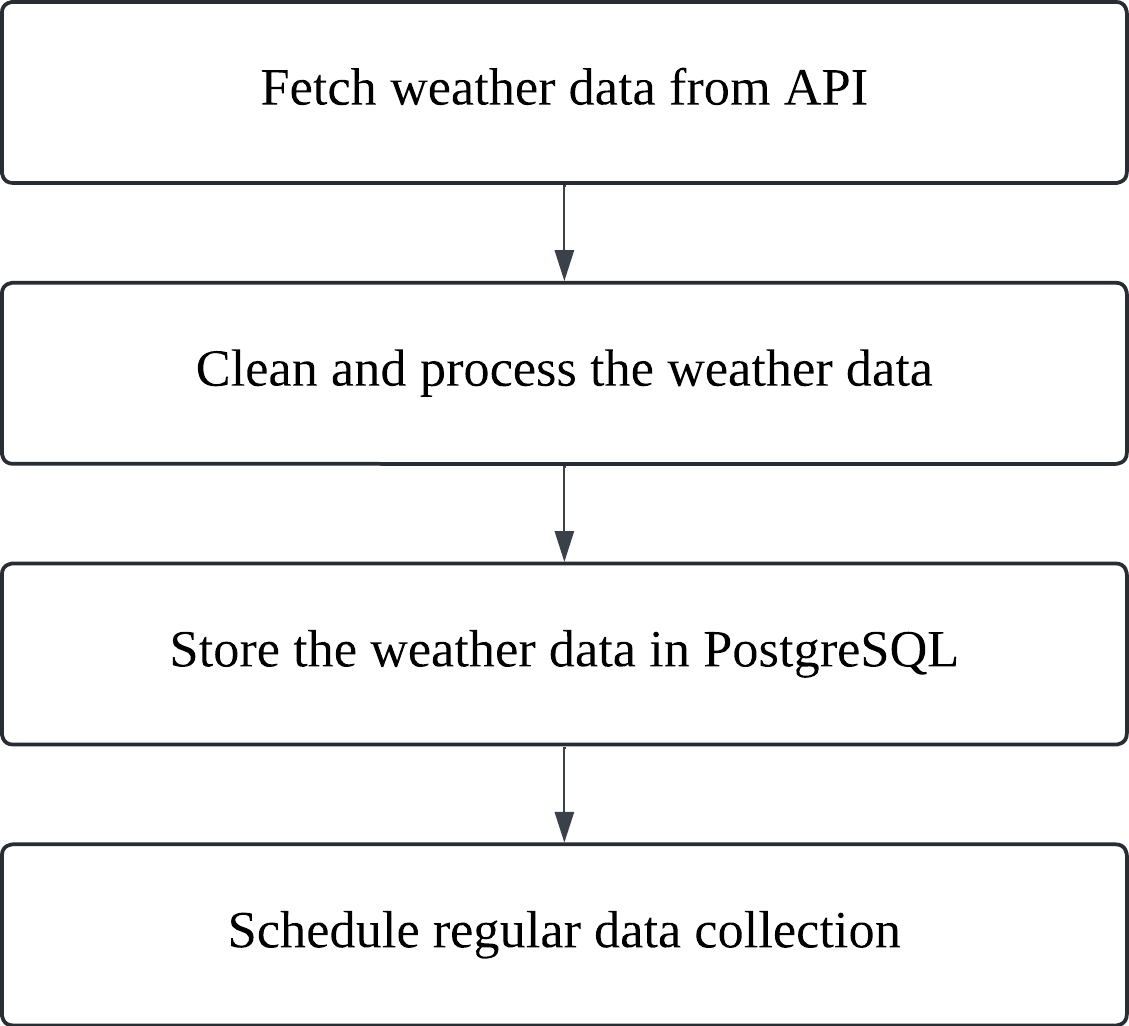
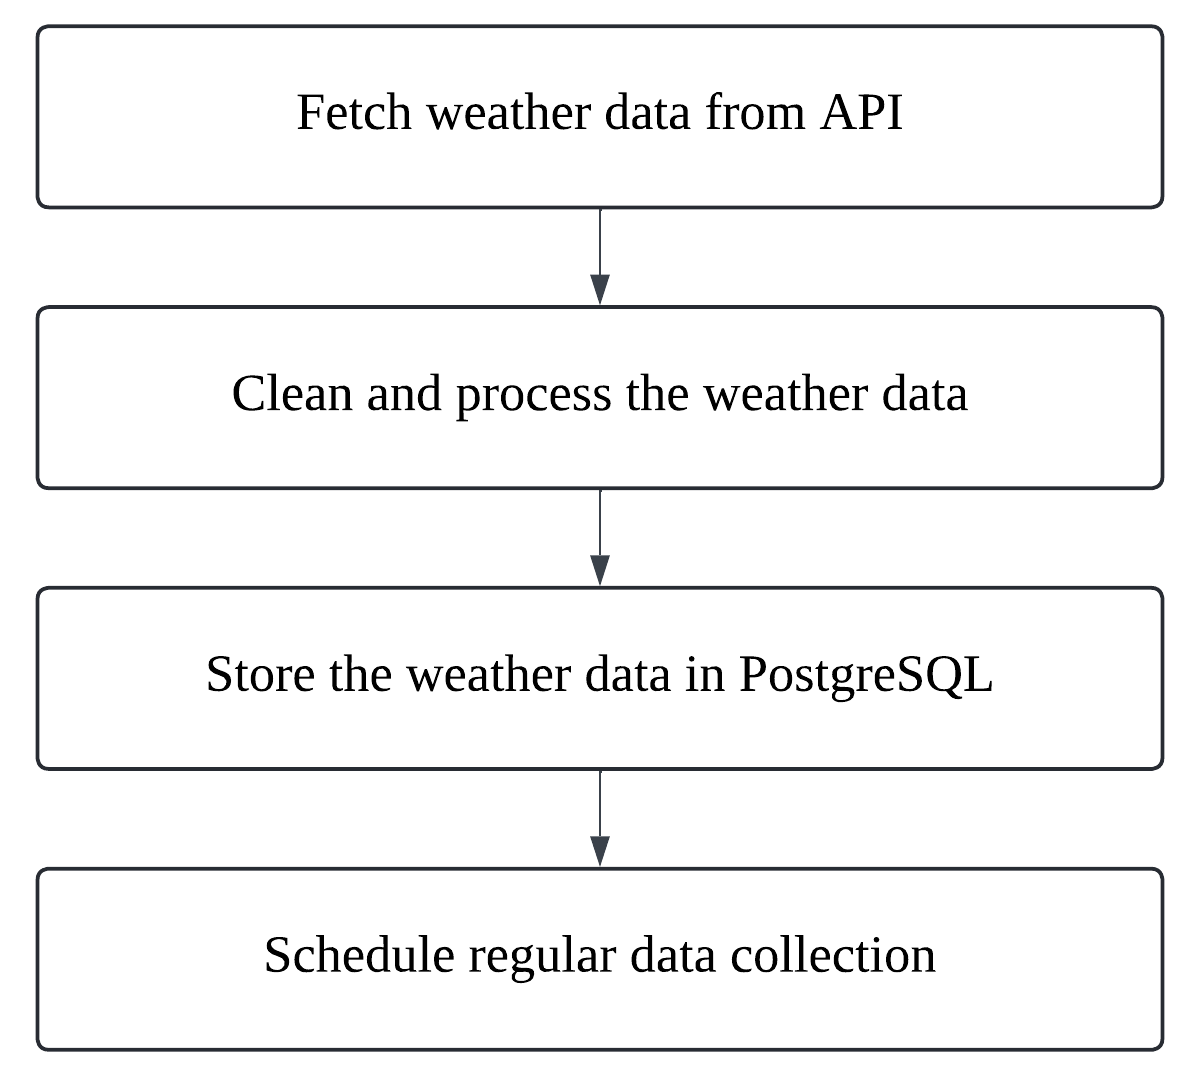
Updated README

diff --git a/README.md b/README.md
@@ -2,6 +2,19 @@
 
 This project fetches weather data for a specified city using the OpenWeatherMap API, processes the data, and stores it in a PostgreSQL database. The PostgreSQL service is automatically started from the Python code, so there's no need to start it manually.
 
+## Overview
+
+The project collects real-time weather data, including temperature, humidity, wind speed, and weather conditions, from the OpenWeatherMap API for the specified city.
+The data is cleaned and processed, such as converting temperature from Kelvin to Celsius and removing any unnecessary fields.
+After cleaning, the data is stored in a PostgreSQL database, allowing for long-term storage and analysis of historical weather data.
+The data collection process is automated and scheduled to run at regular intervals, making the data collection continuous and seamless.
+
+<p align="center">
+  <img src="https://github.com/yuva-raja-reddy/city-weather-collector-db/blob/main/images/pipeline.png" alt="Weather Data Collection Pipeline" width="500">
+</p>
+<p align="center"><em>"Weather Data Collection Pipeline"</em></p>
+
+
 ## Features
 - Fetches weather data (temperature, humidity, wind speed, etc.)
 - Cleans and processes the data (e.g., converts temperature to Celsius)
@@ -72,4 +85,3 @@ You can configure the following environment variables for security:
 export OPENWEATHER_API_KEY=your_api_key
 export DATABASE_URL=your_database_url
 ```
-
